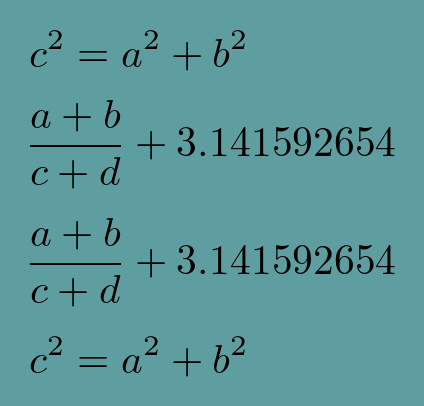
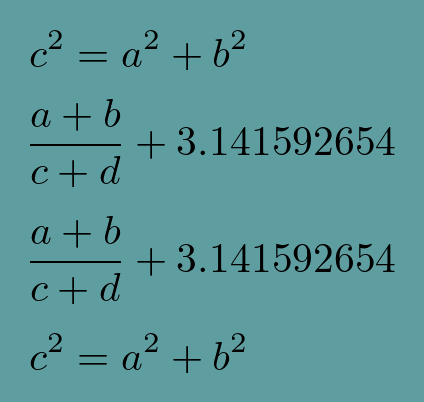
Fix image tests for Linux update

diff --git a/imagetests/test_formulas_module.py b/imagetests/test_formulas_module.py
@@ -17,7 +17,7 @@ class TestFormulas(unittest.TestCase):
         def creator(file):
             width, height = make_formulas_png(file, [r"x^2"], Color("red"))
             self.assertEquals(width, 174)
-            self.assertEquals(height, 173)
+            self.assertEquals(height, 172)
 
         self.assertTrue(run_image_test('test_single_formula.png', creator))
 
@@ -26,7 +26,7 @@ class TestFormulas(unittest.TestCase):
         def creator(file):
             width, height = make_formulas_png(file, [r"c^2 = a^2 + b^2", r"\frac{a+b}{c+d} + 3.141592654", r"\frac{a+b}{c+d} + 3.141592654", r"c^2 = a^2 + b^2"], Color("black"), dpi=300, gap=30, background=Color("cadetblue"))
             self.assertEquals(width, 424)
-            self.assertEquals(height, 406)
+            self.assertEquals(height, 402)
 
         self.assertTrue(run_image_test('test_multiple_formulas.png', creator))
 
